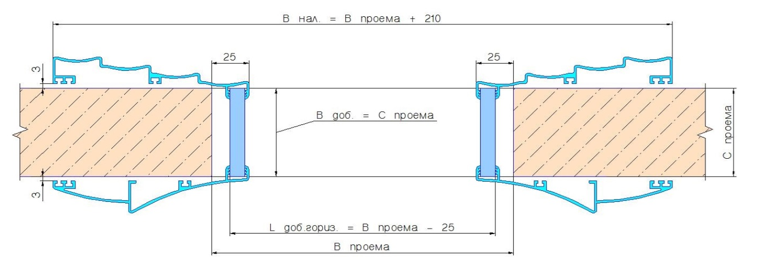
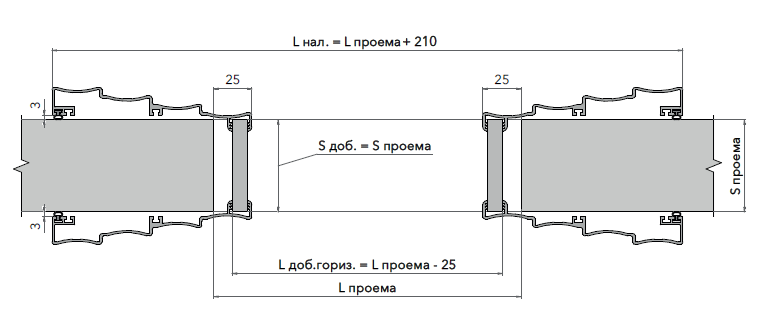
обрамление по заданию 09.09.2026: PASSO, схемы Dune/Cascade, «свет» убран
Задание владельца (News/живой-сайт-обрамление.zip):
- перерисованные схемы Cascade-1/2 и Dune-1/2, остальные 29 без изменений;
- со схемы замера убраны «L свет.» и «H свет.»: формула −50/−25 верна только
  для моделей с добором 25 мм, у MINI/TRIANGLE/PASSO он 20, у TERZO/DORA — 24;
- у PASSO в справочнике стояли цифры Dune/Cascade (+105/+210/−22/−25),
  вернул +110/+220/−17/−15. Контрольный заказ 2695x1018x200 сходится:
  2805x4, 1238x2, 2678x2, 1003x1, 51 426 ₽. Dune и Cascade верные, не тронуты;
- подпись «12 моделей» на плитке раздела убрана.

Добор в спецификации подписывается как «ГРУППА · Отделка», как в эталонном
калькуляторе.

Changed region(s): [[0.0, 0.0582, 0.9896, 0.9309], [0.3598, 0.4073, 0.5698, 0.5236]]

diff --git a/frontend/src/framing/framingData.ts b/frontend/src/framing/framingData.ts
@@ -186,7 +186,8 @@ export function computeSpec(st: FramingState, cat: FramingCatalog): SpecResult {
   const total = rNV + rNH + rDV + rDH + sur + rGV + rGH + rShV + rShH
 
   const cN = cat.colors[st.ci] || '—'
-  const dN = dob ? dob.name : '—'
+  // В спецификации добор пишем как «ГРУППА · Отделка» — как в эталонном калькуляторе.
+  const dN = dob ? `${dob.group} · ${dob.name}` : '— · —'
   const veneerName = venActive ? (cat.veneerItems[st.vi]?.name || '') : ''
   const cLabel = veneerName ? `${cN} · шпон ${veneerName}` : cN
   const rows: SpecRow[] = []
@@ -195,7 +196,7 @@ export function computeSpec(st: FramingState, cat: FramingCatalog): SpecResult {
     rows.push({ nm: `Наличник горизонтальный, ${m.name} · ${cLabel}`, dm: `${nH2} мм`, qt: qh, pr: rNH })
   }
   if (hasGlass) {
-    const glassName = [st.glassGroup || '—', st.glassInsert, st.glassColor.trim()]
+    const glassName = [st.glassGroup || '—', st.glassInsert || '—', st.glassColor.trim()]
       .filter(Boolean).join(' · ')
     rows.push({ nm: `Вставка наличника верт., ${glassName}`, dm: `${gV} мм`, qt: qv, pr: rGV, cl: 'glass' })
     rows.push({ nm: `Вставка наличника гориз., ${glassName}`, dm: `${gH2} мм`, qt: qh, pr: rGH, cl: 'glass' })

diff --git a/frontend/src/pages/Framing.tsx b/frontend/src/pages/Framing.tsx
@@ -472,8 +472,9 @@ function IzmerScheme({ model, H, L, C }: { model: { nH: number; nL: number }; H:
     { id: 'Hp', left: '8%', top: '45%', v: H, vert: true },
     { id: 'Cp', left: '19.5%', top: '59%', v: C },
     { id: 'Ln', left: '77%', top: '22.5%', v: L + model.nL },
-    { id: 'Ls', left: '76.5%', top: '29%', v: L - 50 },
-    { id: 'Hs', left: '63.5%', top: '47%', v: H - 25, vert: true },
+    // «L свет.» и «H свет.» убраны 09.09.2026: формула −50 / −25 верна только для
+    // моделей с добором 25 мм, у MINI/TRIANGLE/PASSO он 20, у TERZO/DORA — 24,
+    // правильного размера на заводских чертежах нет. На цену не влияло.
     { id: 'Hn', left: '94%', top: '48%', v: H + model.nH, vert: true },
   ]
   return (

diff --git a/frontend/src/pages/Home.tsx b/frontend/src/pages/Home.tsx
@@ -16,7 +16,7 @@ const SECTIONS = [
   {
     to: '/framing',
     title: 'Обрамление проёма',
-    desc: 'Калькулятор наличников и доборов Cascate Porte: 12 моделей, цвета и отделки.',
+    desc: 'Калькулятор наличников и доборов Cascate Porte: модели, цвета и отделки.',
     tag: 'Готово',
   },
 ]
